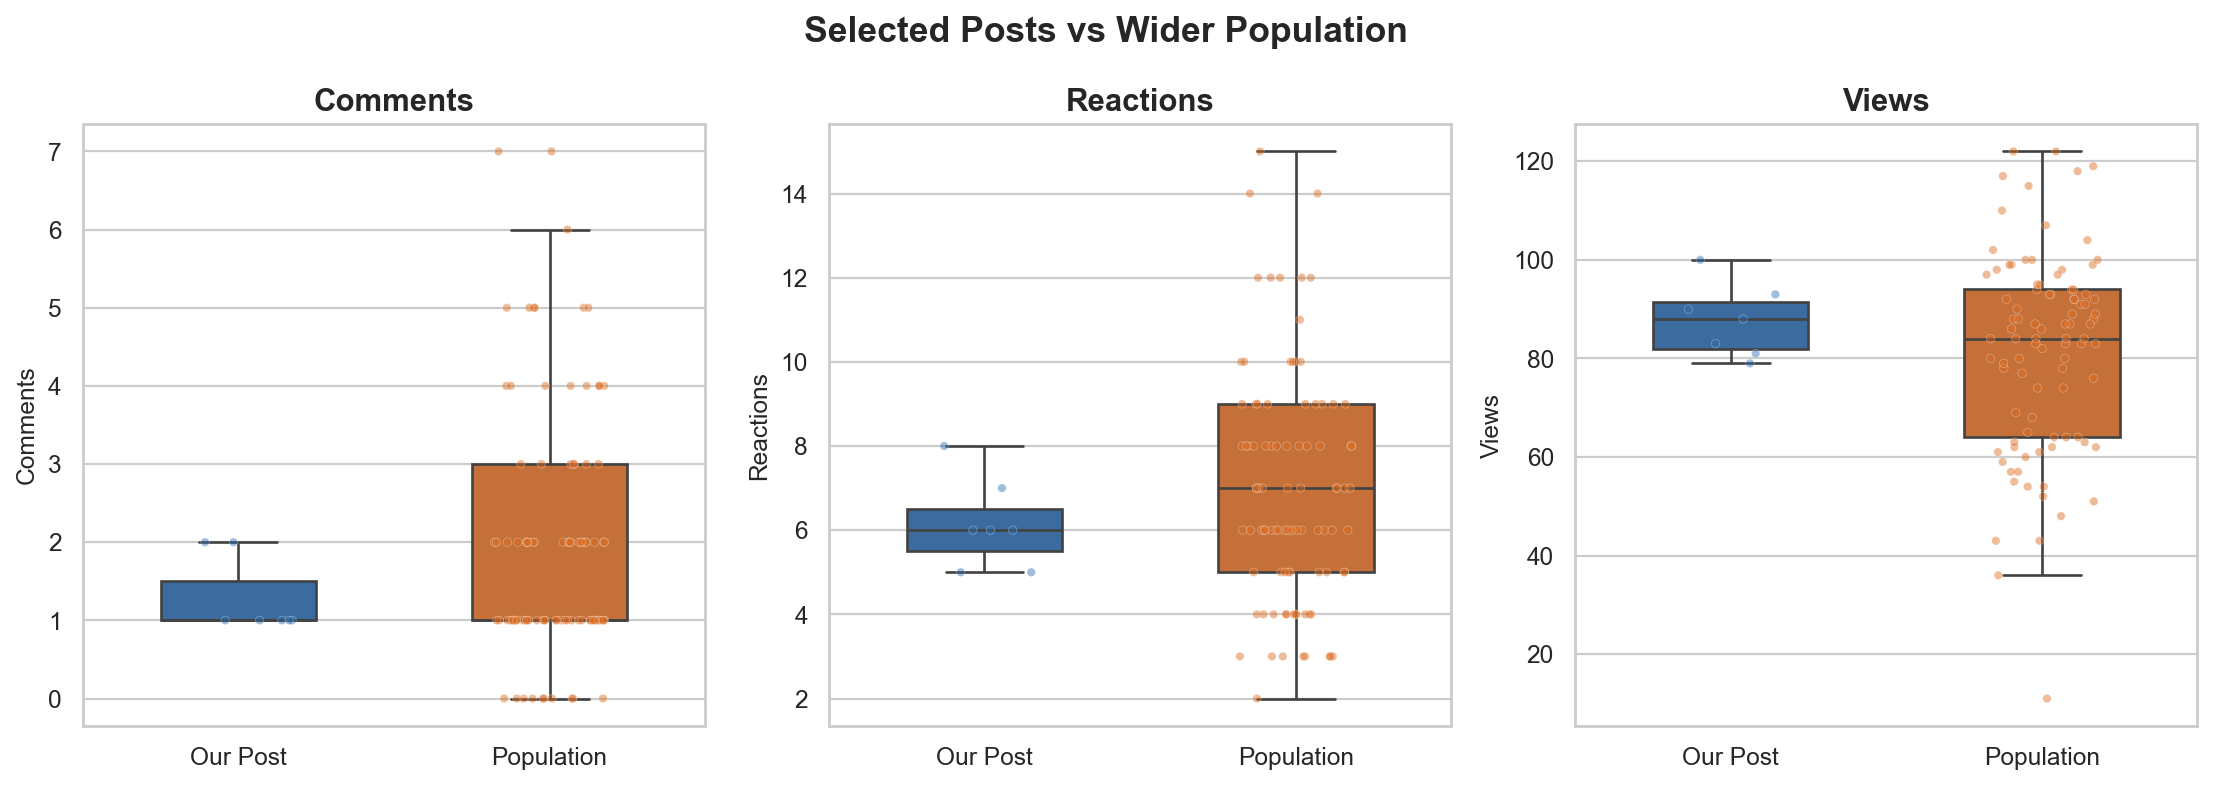
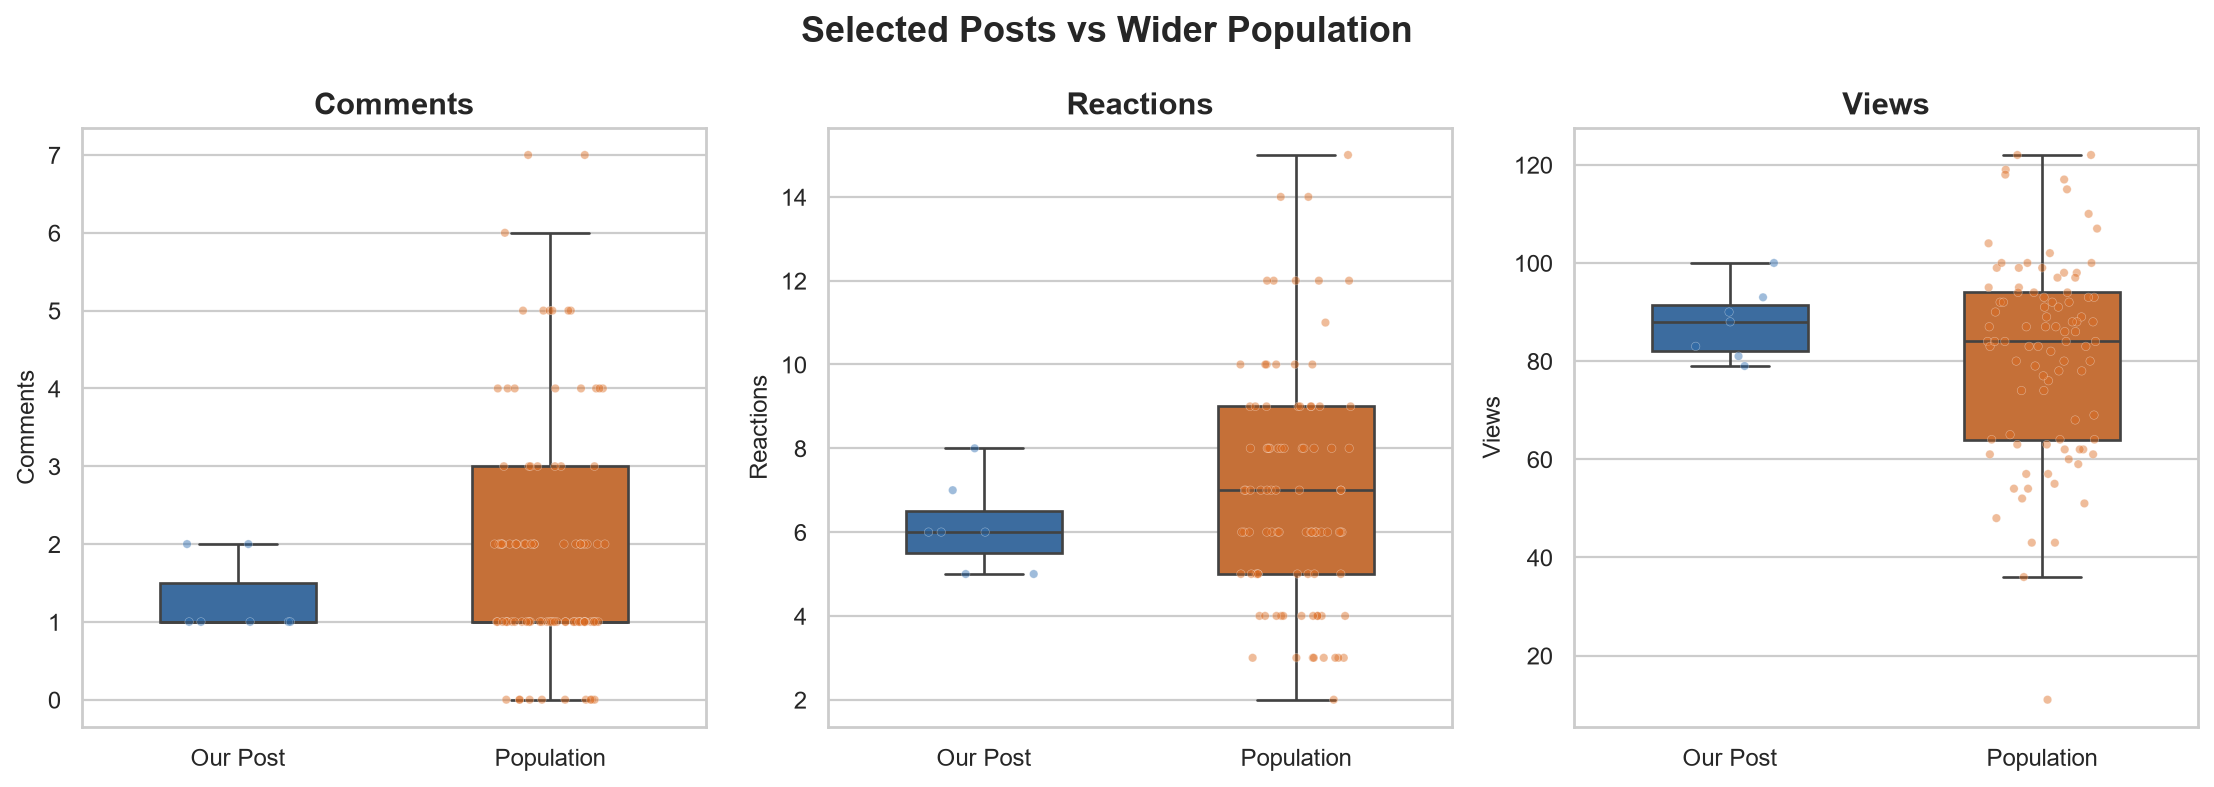
chore: standardize engagement-analysis evidence (#1)
* chore: standardize engagement-analysis evidence

* fix: make engagement visualizations deterministic

diff --git a/notebooks/engagement_analysis.py b/notebooks/engagement_analysis.py
@@ -37,7 +37,10 @@ from sp_digital_marketing.data import (  # noqa: E402
     prepare_group_posts,
     validate_dataframes,
 )
-from sp_digital_marketing.plots import save_comparison_figures  # noqa: E402
+from sp_digital_marketing.plots import (  # noqa: E402
+    save_comparison_figures,
+    seed_plot_randomness,
+)
 
 
 # %% [markdown]
@@ -61,6 +64,7 @@ GREEN = "#2F855A"
 RED = "#C53030"
 PURPLE = "#6B46C1"
 PALETTE = [BLUE, ORANGE, GREEN, RED, PURPLE]
+seed_plot_randomness()
 
 
 def save_figure(figure: plt.Figure, filename: str) -> Path:
@@ -151,6 +155,7 @@ figure, axes = plt.subplots(2, 2, figsize=(12, 8))
 axes = axes.flatten()
 
 for axis, metric, color in zip(axes, performance_metrics, PALETTE[:4], strict=True):
+    display_metric = "Engagement Rate" if metric == "EngagementRate" else metric
     sns.barplot(
         data=group_posts,
         x="Type",
@@ -171,8 +176,9 @@ for axis, metric, color in zip(axes, performance_metrics, PALETTE[:4], strict=Tr
         ax=axis,
     )
     label_bars(axis)
-    axis.set_title(f"Average {metric}")
+    axis.set_title(f"Average {display_metric}")
     axis.set_xlabel("")
+    axis.set_ylabel(display_metric)
     axis.grid(axis="x", visible=False)
 
 figure.suptitle("Selected Group Posts: Performance by Post Type", fontsize=16, weight="bold")
@@ -355,9 +361,11 @@ for output_path in save_comparison_figures(data):
 
 # %%
 top_by_views = posts.sort_values("Views", ascending=False).head(5)
-top_by_engagement = posts.assign(Engagement=posts["Comments"] + posts["Reactions"]).sort_values(
-    "Engagement", ascending=False
-).head(5)
+top_by_engagement = (
+    posts.assign(Engagement=posts["Comments"] + posts["Reactions"])
+    .sort_values("Engagement", ascending=False)
+    .head(5)
+)
 
 print("Top 5 posts by views")
 print(top_by_views[["Member", "Comments", "Reactions", "Views"]].to_string(index=False))

diff --git a/tests/test_analysis_helpers.py b/tests/test_analysis_helpers.py
@@ -1,3 +1,5 @@
+from hashlib import sha256
+
 import pandas as pd
 
 from sp_digital_marketing.data import (
@@ -6,6 +8,7 @@ from sp_digital_marketing.data import (
     load_all_data,
     prepare_group_posts,
 )
+from sp_digital_marketing.plots import save_comparison_figures
 
 
 def test_prepare_group_posts_adds_expected_metrics() -> None:
@@ -17,7 +20,9 @@ def test_prepare_group_posts_adds_expected_metrics() -> None:
     assert (group_posts["Engagement"] == group_posts["Comments"] + group_posts["Reactions"]).all()
     assert (group_posts["Duration of Post"] >= 0).all()
 
-    expected_rate = ((group_posts["Comments"] + group_posts["Reactions"]) / group_posts["Views"] * 100)
+    expected_rate = (
+        (group_posts["Comments"] + group_posts["Reactions"]) / group_posts["Views"] * 100
+    )
     pd.testing.assert_series_equal(
         group_posts["EngagementRate"],
         expected_rate.round(2),
@@ -33,3 +38,14 @@ def test_population_comparison_labels_group_and_population() -> None:
     assert set(comparison["Dataset"]) == {"Our Post", "Population"}
     assert len(comparison.loc[comparison["Member"] == GROUP_MEMBER]) == 7
     assert len(comparison.loc[comparison["Dataset"] == "Population"]) == 93
+
+
+def test_comparison_figures_are_deterministic(tmp_path) -> None:
+    data = load_all_data()
+    first_paths = save_comparison_figures(data, tmp_path / "first")
+    second_paths = save_comparison_figures(data, tmp_path / "second")
+
+    first_hashes = [sha256(path.read_bytes()).hexdigest() for path in first_paths]
+    second_hashes = [sha256(path.read_bytes()).hexdigest() for path in second_paths]
+
+    assert first_hashes == second_hashes

diff --git a/src/sp_digital_marketing/data.py b/src/sp_digital_marketing/data.py
@@ -93,7 +93,6 @@ class ProjectData:
 
 def load_all_data() -> ProjectData:
     """Load all raw CSV datasets using the canonical project paths."""
-
     return ProjectData(
         posts=pd.read_csv(POSTS_FILE),
         days_summary=pd.read_csv(DAYS_SUMMARY_FILE),
@@ -104,7 +103,6 @@ def load_all_data() -> ProjectData:
 
 def validate_dataframes(data: ProjectData) -> None:
     """Validate required columns, values, and date/day consistency."""
-
     frames = {
         "posts": data.posts,
         "days_summary": data.days_summary,
@@ -150,7 +148,6 @@ def validate_dataframes(data: ProjectData) -> None:
 
 def prepare_group_posts(posts: pd.DataFrame, member: str = GROUP_MEMBER) -> pd.DataFrame:
     """Prepare selected group posts with curated metadata and engagement metrics."""
-
     selected_posts = posts.loc[posts["Member"] == member].copy()
     merged = selected_posts.join(GROUP_POST_METADATA, how="inner")
 
@@ -167,7 +164,6 @@ def prepare_group_posts(posts: pd.DataFrame, member: str = GROUP_MEMBER) -> pd.D
 
 def build_population_comparison(posts: pd.DataFrame, member: str = GROUP_MEMBER) -> pd.DataFrame:
     """Label selected group posts and comparison-population posts in one dataframe."""
-
     group_posts = posts.loc[posts["Member"] == member].copy()
     population_posts = posts.loc[posts["Member"] != member].copy()
     group_posts["Dataset"] = "Our Post"

diff --git a/src/sp_digital_marketing/plots.py b/src/sp_digital_marketing/plots.py
@@ -5,6 +5,7 @@ from __future__ import annotations
 from pathlib import Path
 
 import matplotlib.pyplot as plt
+import numpy as np
 import seaborn as sns
 
 from sp_digital_marketing.config import FIGURES_DIR
@@ -14,11 +15,17 @@ COMPARISON_PALETTE = {
     "Our Post": "#2B6CB0",
     "Population": "#DD6B20",
 }
+PLOT_RANDOM_SEED = 42
+
+
+def seed_plot_randomness() -> None:
+    """Reset plotting jitter to the project's reproducible random seed."""
+    np.random.seed(PLOT_RANDOM_SEED)
 
 
 def save_comparison_figures(data: ProjectData, output_dir: Path = FIGURES_DIR) -> list[Path]:
     """Save boxplot comparison figures and return the created paths."""
-
+    seed_plot_randomness()
     output_dir.mkdir(parents=True, exist_ok=True)
     comparison = build_population_comparison(data.posts)
 
@@ -58,7 +65,9 @@ def save_comparison_figures(data: ProjectData, output_dir: Path = FIGURES_DIR) -
             ax=axis,
             legend=False,
         )
-        axis.set_title(f"{metric}: Our Posts vs Wider Population", loc="left", weight="bold", pad=14)
+        axis.set_title(
+            f"{metric}: Our Posts vs Wider Population", loc="left", weight="bold", pad=14
+        )
         axis.set_xlabel("")
         axis.set_ylabel(ylabel)
         axis.grid(axis="x", visible=False)

diff --git a/scripts/regenerate_figures.py b/scripts/regenerate_figures.py
@@ -6,7 +6,6 @@ from sp_digital_marketing.plots import save_comparison_figures
 
 def main() -> None:
     """Load, validate, and regenerate the comparison figures."""
-
     data = load_all_data()
     validate_dataframes(data)
     output_paths = save_comparison_figures(data)

diff --git a/tests/test_project_structure.py b/tests/test_project_structure.py
@@ -31,6 +31,7 @@ def test_each_project_folder_has_readme() -> None:
         "venv",
         "build",
         "dist",
+        "graphify-out",
     }
     folders = [
         path

diff --git a/CONTRIBUTING.md b/CONTRIBUTING.md
@@ -1,42 +1,72 @@
-# Contributing
+# Contributing to SP DAAA IDM CA2 Audience Engagement Analysis
 
-Thank you for helping keep this project clear, reproducible, and respectful.
+Thank you for improving this project. Contributions should be focused, reproducible, evidence-based, and safe to review. By participating, you agree to follow the repository's `CODE_OF_CONDUCT.md` and security policy.
 
-## Before You Change Files
+## Development setup
 
-1. Read `README.md` and the relevant folder `README.md`.
-2. Keep raw data files in `data/raw/` unless the data source changes.
-3. Keep exploratory work in `notebooks/`.
-4. Put reusable Python logic in `src/sp_digital_marketing/`.
-5. Add or update tests in `tests/` when behavior changes.
+1. Read `README.md` for project-specific prerequisites, data boundaries, and architecture.
+2. Create a branch from the current default branch; do not develop directly on `main`.
+3. Install only the dependencies needed for the change. Never commit virtual environments, caches, secrets, generated databases, or unlicensed datasets.
 
-## Development Setup
+Typical setup and quality commands are:
 
-```powershell
+```text
 python -m venv .venv
-.\.venv\Scripts\Activate.ps1
-python -m pip install --upgrade pip
-pip install -e ".[dev,notebook]"
+python -m pip install -e ".[dev]"
+python -m ruff check .
+python -m ruff format --check .
+python -m pytest
+python -m compileall scripts src tests
 ```
 
-## Checks To Run
+On Windows, activate a Python environment with `.venv\Scripts\Activate.ps1`; on POSIX shells use `source .venv/bin/activate`. The GitHub Actions workflow remains the authoritative cross-platform gate.
 
-```powershell
-ruff check src scripts tests
-pytest
-bandit -r src scripts
-pip-audit . --progress-spinner off
+### Repository-specific CI-equivalent checks
+
+Before opening a pull request, run the applicable heavier validation below. Commands that require Docker, Windows packaging, LaTeX, credentials, external data, or optional services are expected to report their documented prerequisite rather than be silently skipped.
+
+```text
+python -m bandit -r src scripts -c pyproject.toml
+python -m pip_audit . --progress-spinner off
 ```
 
-The GitHub Actions workflow also runs project-scoped dependency auditing through `pip-audit`.
+## Development workflow
 
-## Documentation Expectations
+1. Link the change to a clear issue or problem statement.
+2. Keep commits and pull requests small enough to review independently.
+3. Add or update tests before changing behaviour, including failure and boundary cases.
+4. Update generated artifacts through their source script; do not hand-edit generated outputs.
+5. Re-run the full local quality gate and inspect `git diff --check` before requesting review.
 
-- Update the root `README.md` when project setup or commands change.
-- Update `docs/data-dictionary.md` when datasets or columns change.
-- Update `docs/methodology.md` when analysis assumptions change.
-- Keep folder-level READMEs short and practical.
+Use descriptive branch names such as `fix/model-validation`, `docs/evidence-table`, or `feat/batch-import`. Prefer imperative, scoped commit messages such as `fix: reject malformed labels`.
 
-## Academic Integrity
+## Quality checks
 
-Do not claim work that is not yours. Preserve source attribution, keep analysis methods transparent, and document any manual assumptions used in the notebook or code.
+All applicable lint, formatting, test, build, notebook, security, and dependency checks must pass. Python production APIs follow PEP 8 and PEP 257 with Google-style docstrings; tests may rely on descriptive test names where the Ruff configuration explicitly allows it.
+
+Do not weaken a quality threshold, skip a security finding, or add a blanket exclusion merely to make CI green. Any narrowly necessary suppression must identify the rule or advisory, explain the risk decision, and include an owner or review condition.
+
+## Documentation and evidence
+
+- Update `README.md`, architecture/model/data documentation, and examples when behaviour or interfaces change.
+- Preserve the denominator, dataset version, split, model/run, date range, and calculation method for every numerical claim.
+- Distinguish implemented capability from measured outcome. Tests, CI, and deployment scaffolding do not prove that a system is secure, production-deployed, real-time, accurate, or impactful.
+- Keep notebooks reproducible: run cells in order, remove stored exception outputs, record seeds/configuration, and avoid committing local absolute paths.
+- Document data provenance and licensing. Do not add personal, confidential, credentialed, or copyrighted data without explicit authorization.
+
+## Pull requests
+
+A pull request should include:
+
+- a concise problem statement and solution summary;
+- the exact commands run and their results;
+- screenshots or artifacts for visible behaviour changes;
+- data/model migration and rollback notes where relevant;
+- updated documentation and an evidence source for new claims; and
+- confirmation that no secret, personal data, or unrelated generated file is included.
+
+Reviewers should be able to reproduce the result from a clean checkout. Resolve all review threads and keep the branch current before merge.
+
+## Security and conduct
+
+Report vulnerabilities through the private process in `SECURITY.md`; do not open a public exploit issue. Follow `CODE_OF_CONDUCT.md` in all project spaces. Academic or portfolio contributions must preserve attribution and must not misrepresent collaborators, results, or institutional endorsement.

diff --git a/AGENTS.md b/AGENTS.md
@@ -1,0 +1,79 @@
+# Repository agent instructions
+
+## Scope and precedence
+
+These instructions apply to the entire repository. If a future directory contains a more specific `AGENTS.md`, follow that file for work inside its directory. Direct maintainer instructions take precedence.
+
+## Project context
+
+- **Project:** SP DAAA IDM CA2 Audience Engagement Analysis
+- **Repository shape:** Python, Jupyter notebooks
+- Read `README.md` before changing behaviour, architecture, data handling, or public claims.
+- Treat `CONTRIBUTING.md` as the authoritative development workflow and command reference.
+- Follow `SECURITY.md` for vulnerability reporting and `CODE_OF_CONDUCT.md` for collaboration.
+- Use the workflows under `.github/workflows/` as the final cross-platform CI contract.
+
+## Working agreement
+
+1. Keep each change focused on a clear problem; avoid unrelated cleanup.
+2. Inspect nearby tests, configuration, documentation, and generated artifacts before editing.
+3. Add or update tests for behavioural changes, including failure and boundary cases.
+4. Preserve public APIs and file formats unless the change explicitly includes a documented migration.
+5. Never commit credentials, personal data, local environments, caches, or unlicensed datasets.
+6. Do not weaken lint, coverage, security, or dependency gates merely to obtain a passing run.
+7. After code or architecture changes, run `graphify update .` and review the graph diff; do not commit cache-only churn.
+8. Do not stage, commit, push, or publish changes unless the maintainer explicitly requests that action.
+
+## Required validation
+
+Run commands from the repository root. Use a clean environment when dependency or packaging behaviour changes.
+
+### Standard development gate
+
+```text
+python -m venv .venv
+python -m pip install -e ".[dev]"
+python -m ruff check .
+python -m ruff format --check .
+python -m pytest
+python -m compileall scripts src tests
+```
+
+### Repository-specific CI-equivalent checks
+
+```text
+python -m bandit -r src scripts -c pyproject.toml
+python -m pip_audit . --progress-spinner off
+```
+
+Also run `git diff --check`. Record exactly which commands ran, their outcomes, and any documented prerequisite that prevented a check. Do not describe an unexecuted check as passing.
+
+### Conditional or integration setup
+
+- Install notebook dependencies with `python -m pip install -e ".[dev,notebook]"` only for Jupyter or full analysis work.
+- Use `python notebooks/engagement_analysis.py` for the full figure set or `python scripts/regenerate_figures.py` for the comparison subset.
+
+## Managed artifacts and data
+
+- Treat committed figures under `reports/figures/` as generated evidence; regenerate them from the analysis scripts and do not hand-edit them.
+- Keep `.env` local; the current project requires no secrets.
+
+## Integration and claim boundaries
+
+- The committed academic dataset includes names, post text, metrics, and links; follow the privacy and ethics guidance before sharing or reuse.
+- Campaign findings are observational and do not prove post-campaign lift or causal impact.
+- **Verified local capability:** Notebook, code, lint, compile, and security checks.
+- **Known boundary:** Verified campaign contains 7 content pieces; outcomes are observational.
+
+## Code, documentation, and evidence standards
+
+- For Python, follow PEP 8, PEP 257, and Google-style docstrings in the production scopes configured by Ruff.
+- Prefer small, typed, testable units and explicit error handling. Avoid silent fallbacks that hide invalid data, missing models, credentials, or services.
+- Update README, architecture, data/model documentation, examples, and changelog material when interfaces or behaviour change.
+- Every quantitative claim must retain its denominator, dataset/version, split, date range, run/configuration, and calculation method.
+- Distinguish measured results from targets, examples, heuristics, previews, and prior runs. Do not infer deployment, accuracy, security, causality, or impact from tests or scaffolding alone.
+- Update generated files through their source script. If no generator exists, document the manual process and verify semantic equivalence.
+
+## Review and handoff
+
+Before handing off a change, provide a concise summary, list changed files, report validation evidence, and call out residual risks or unavailable integrations. Keep commits imperative and scoped; do not add tool-attribution or automated co-author trailers.

diff --git a/README.md b/README.md
@@ -4,6 +4,15 @@
 
 Python and Jupyter analysis project for a Singapore Polytechnic Introduction to Digital Marketing CA2 assignment. The repository studies audience engagement patterns from post-level data, including comments, reactions, views, day-of-week activity, time-of-day activity, and selected-post performance against the wider observed population.
 
+## Evidence and interpretation
+
+| Evidence-backed measure | Current repository evidence |
+| --- | --- |
+| Parsed corpus | **100 posts, 192 comments, 689 reactions, and 8,208 views**. |
+| Campaign subset | **7 selected content pieces** are analysed as the focused campaign group. |
+
+The qualitative outcome is an evidence-led content-performance workflow spanning data quality, engagement comparisons, correlations, visualisation, and recommendations. Corpus totals describe the source data, not a post-recommendation uplift in engagement.
+
 ## Academic Context
 
 This project was completed under Singapore Polytechnic, School of Business, Poly-Wide Elective, **Introduction to Digital Marketing (EP0702), CA2**, in **AY24/25 Year 1 Semester 2**.

diff --git a/docs/methodology.md b/docs/methodology.md
@@ -12,7 +12,9 @@ The analysis combines exploratory notebook work with reusable Python helpers. Th
 4. Add manually curated metadata for post date and post type where the raw export does not provide those fields.
 5. Calculate engagement and engagement rate.
 6. Compare selected group posts against the wider observed population.
-7. Export final boxplot figures to `reports/figures/`.
+7. Reset plotting jitter to random seed 42 and export the final figures to
+   `reports/figures/` so repeated runs in the same dependency environment are
+   byte-for-byte reproducible.
 
 ## Assumptions
 
